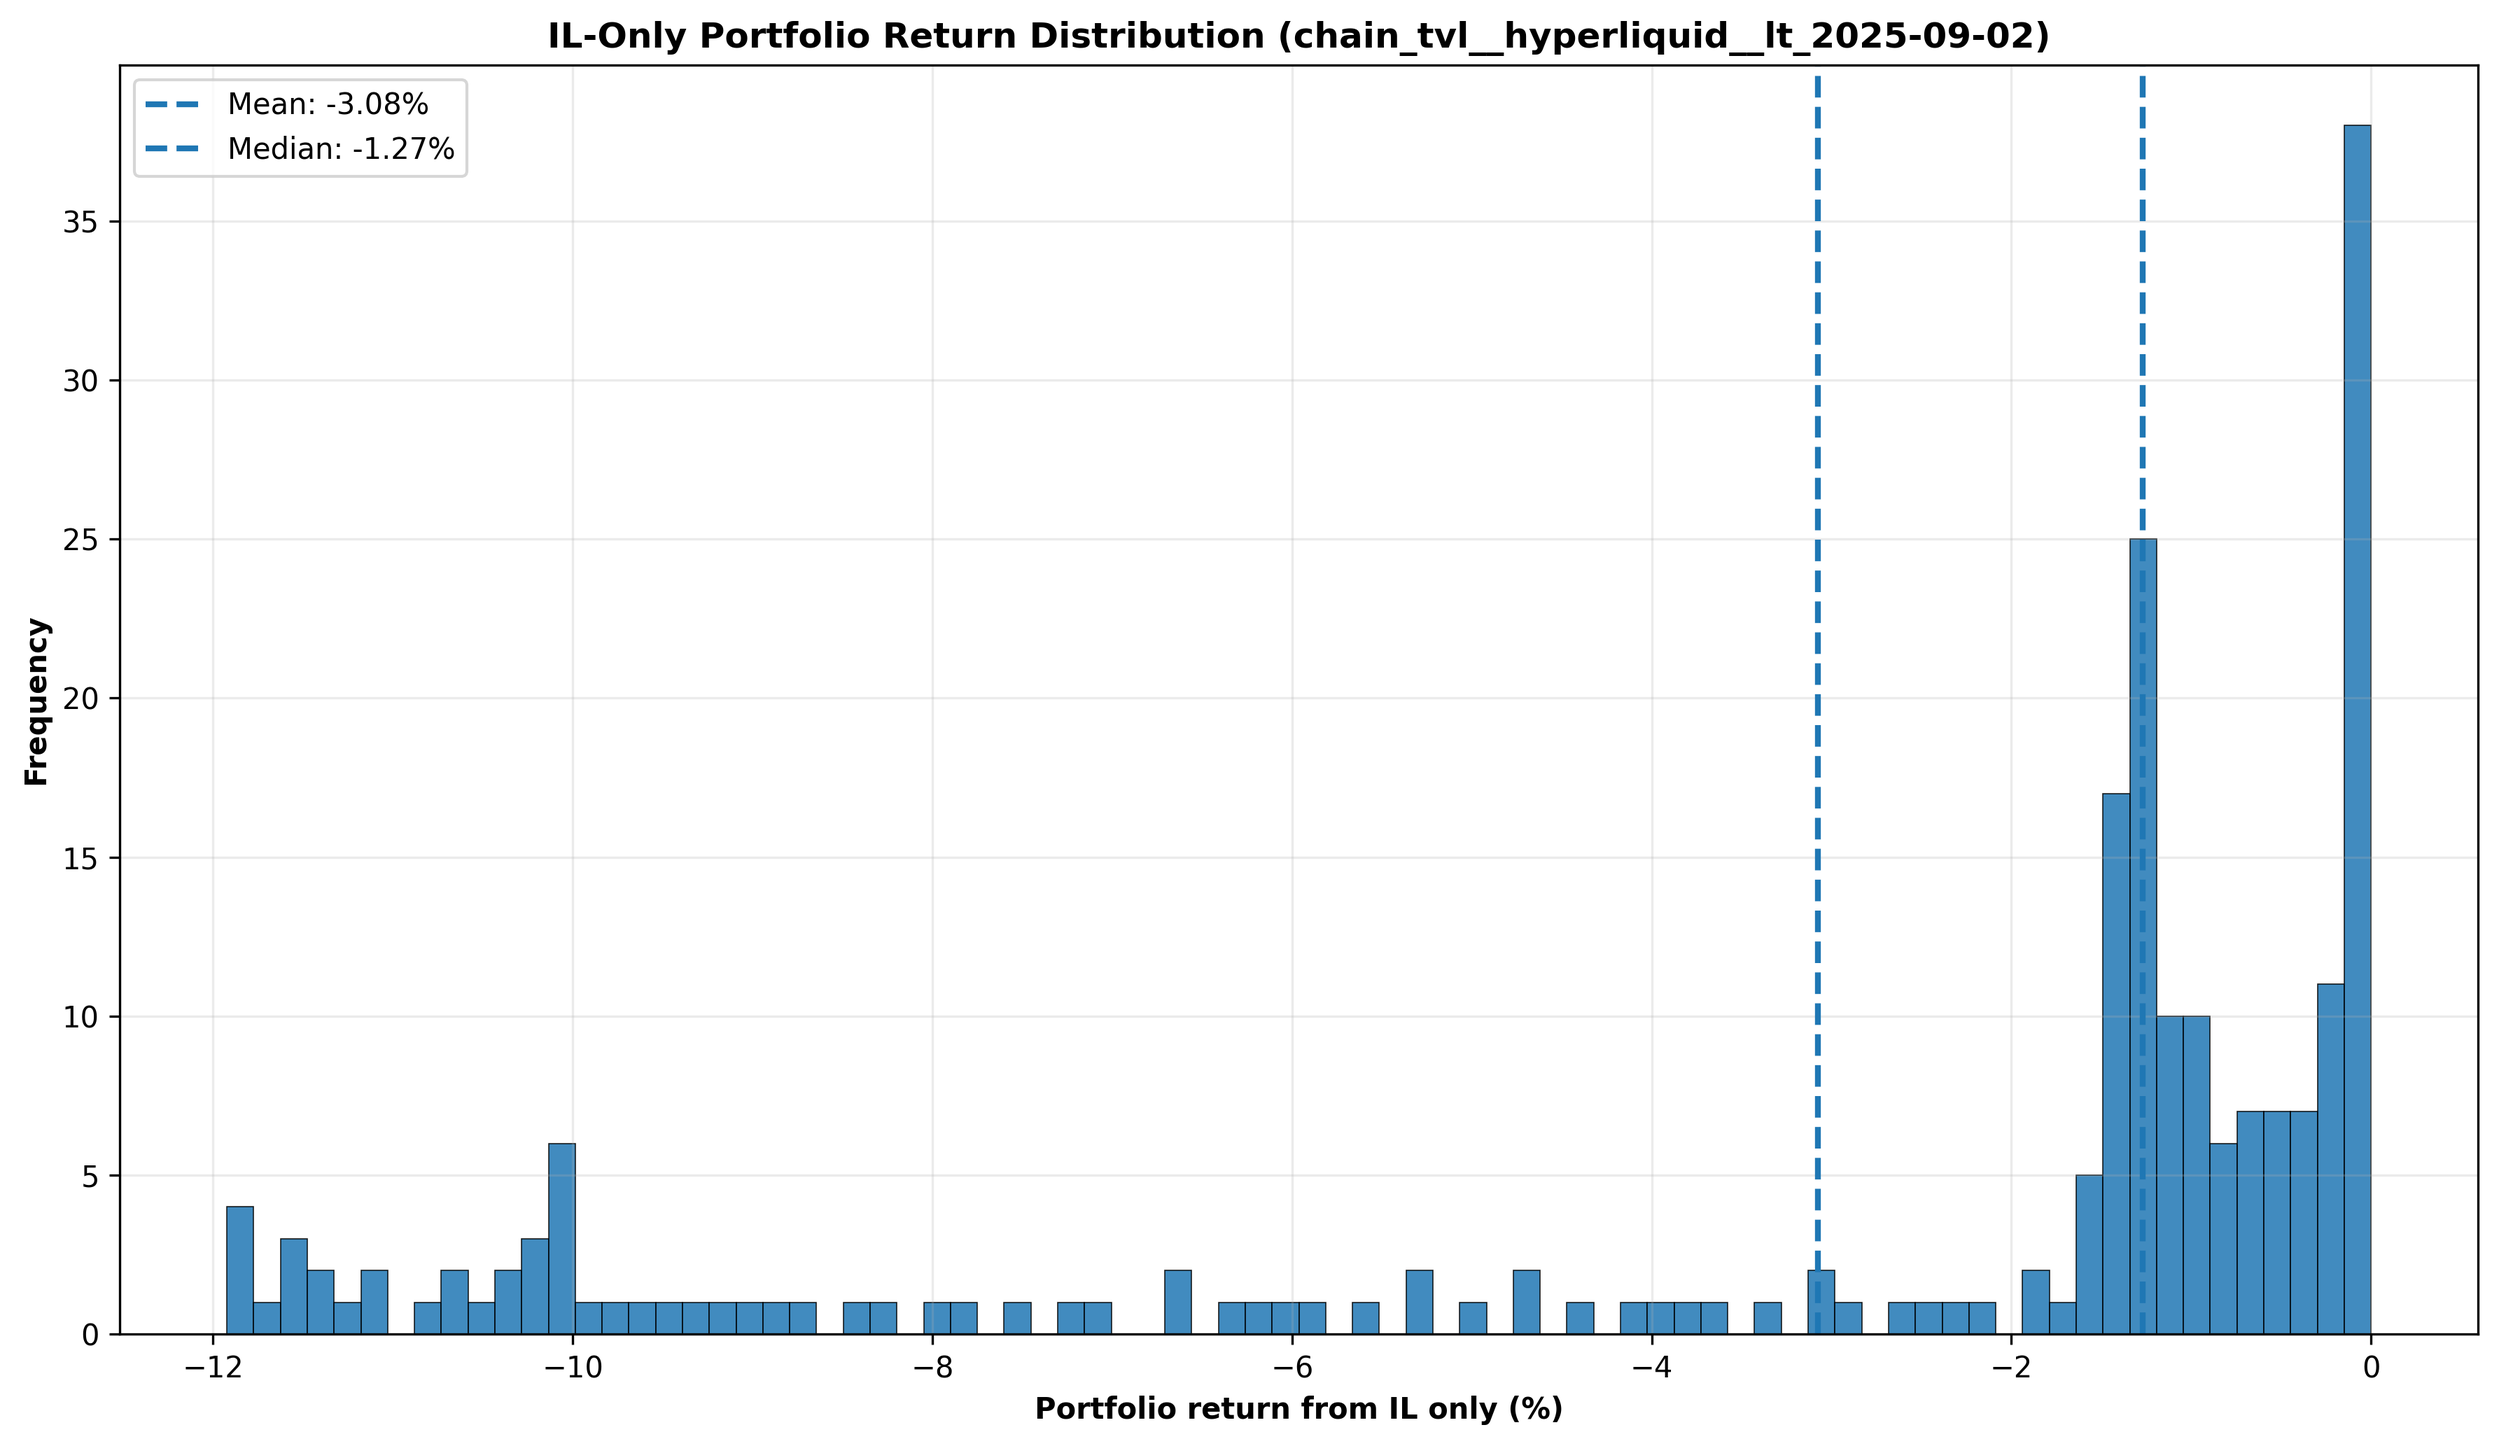
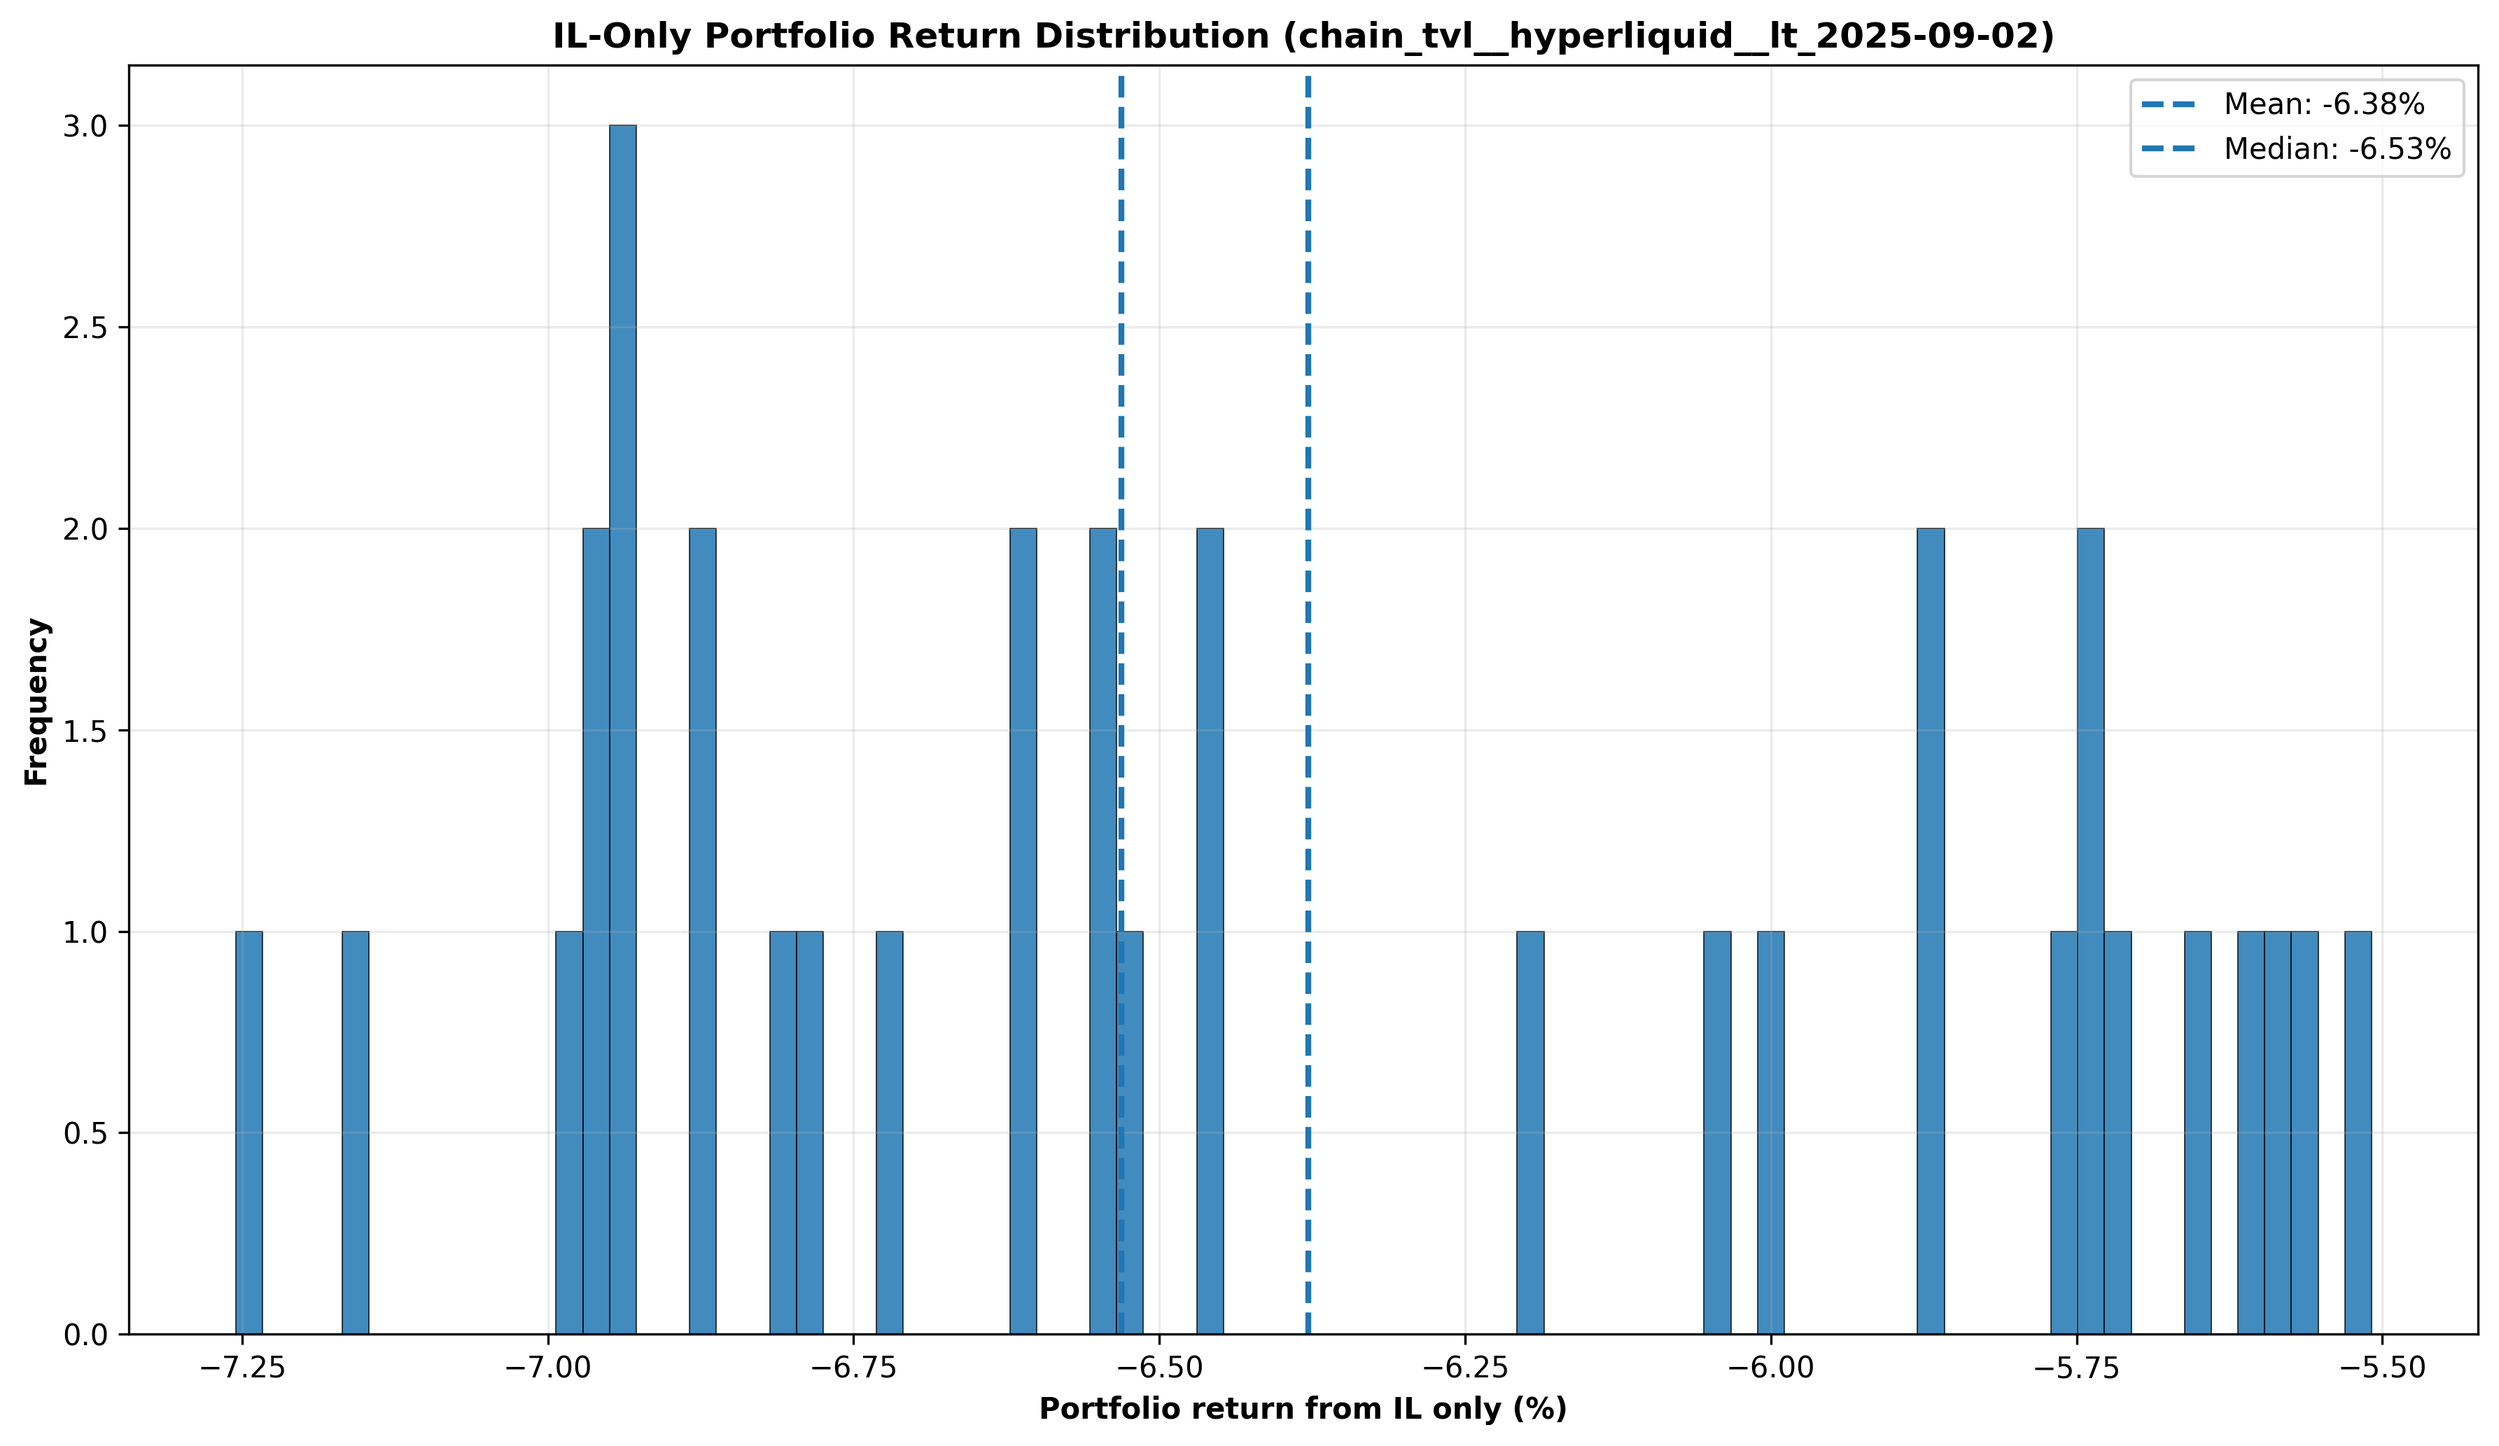
chain_tvl__base__il_report__lt_2025-09-02.md chain_tvl__hyperliquid__il_by_window__lt_2025-09-02.csv chain_tvl__hyperliquid__il_hist__lt_2025-09-02.png chain_tvl__hyperliquid__il_report__lt_2025-09-02.md chain_tvl__hyperliquid__il_timeseries__lt_2025-09-02.png chain_tvl__solana__il_report__lt_2025-0

diff --git a/chain_tvl__hyperliquid__il_report__lt_2025-09-02.md b/chain_tvl__hyperliquid__il_report__lt_2025-09-02.md
@@ -20,7 +20,7 @@ We simulate starting at each historical window strictly earlier than the cutoff 
 We **exclude** very early windows until a minimum history (processing.min_il_calc_history_months) has elapsed to avoid unstable bounds.
 
 ## Important
-- **Mean** -3.08% and **median** -1.27% IL-only returns are shown below.
+- **Mean** -6.38% and **median** -6.53% IL-only returns are shown below.
 - These IL losses must be compared to incentive APY to calculate your net returns.
 
 ## Portfolio Performance
@@ -34,9 +34,9 @@ This time series shows how IL-only portfolio returns have varied across differen
 
 ### Distribution Summary (IL-only, %)
 
-- Count: **215**
-- Mean: **-3.08%**, Std: **3.83%**
-- Median: **-1.27%**  |  P25: **-4.80%**  |  P10: **-10.15%**  |  P75: **-0.41%**
+- Count: **34**
+- Mean: **-6.38%**, Std: **0.55%**
+- Median: **-6.53%**  |  P25: **-6.87%**  |  P10: **-6.97%**  |  P75: **-5.79%**
 
 ## Calculating Your Net APY
 
@@ -57,13 +57,13 @@ Where:
 - **IL_Return**: Your expected impermanent loss return (as a decimal, typically negative)
 
 ### Example Calculation (Hypothetical Numbers Only):
-**Example calculation only**: Let's say Merkl shows **200% APY** (this is just an example - actual APY varies by market) and you experience the **median IL loss (-1.27%)**:
+**Example calculation only**: Let's say Merkl shows **200% APY** (this is just an example - actual APY varies by market) and you experience the **median IL loss (-6.53%)**:
 
 1. **Scale Merkl APY to period**: 200% × 0.082 = 16.4%
 2. **Convert to multiplier**: 1 + 16.4% = 1.164
-3. **Apply median IL loss**: 1.164 × (1 + -1.3%) = 1.164 × 0.987 = 1.150
-4. **Net return for 30 days**: 15.0%
-5. **Annualized (APY)**: (1.150)^12.2 - 1 = **445.2% APY**
+3. **Apply median IL loss**: 1.164 × (1 + -6.5%) = 1.164 × 0.935 = 1.088
+4. **Net return for 30 days**: 8.8%
+5. **Annualized (APY)**: (1.088)^12.2 - 1 = **180.1% APY**
 
 **Steps to use this with your actual numbers:**
 1. Find your market's Merkl campaign and note the **actual APY** (not the 200% example)
@@ -78,6 +78,15 @@ Where:
 
 ## Outputs
 - **CSV (per-window IL)**: [chain_tvl__hyperliquid__il_by_window__lt_2025-09-02.csv](chain_tvl__hyperliquid__il_by_window__lt_2025-09-02.csv)
+
+## Configuration Parameters
+
+```
+generation.hist_months: 4
+processing.scale: max
+processing.only_positive: True
+processing.min_il_calc_history_months: 1
+```
 
 # Disclaimer
 This analysis is for informational purposes only and does not constitute financial advice. Results are based on historical data and may not reflect future performance. Simulation code and models may contain errors or inaccuracies.

diff --git a/chain_tvl__solana__il_report__lt_2025-09-02.md b/chain_tvl__solana__il_report__lt_2025-09-02.md
@@ -79,5 +79,14 @@ Where:
 ## Outputs
 - **CSV (per-window IL)**: [chain_tvl__solana__il_by_window__lt_2025-09-02.csv](chain_tvl__solana__il_by_window__lt_2025-09-02.csv)
 
+## Configuration Parameters
+
+```
+generation.hist_months: 20
+processing.scale: log
+processing.only_positive: True
+processing.min_il_calc_history_months: 5
+```
+
 # Disclaimer
 This analysis is for informational purposes only and does not constitute financial advice. Results are based on historical data and may not reflect future performance. Simulation code and models may contain errors or inaccuracies.

diff --git a/chain_tvl__base__il_report__lt_2025-09-02.md b/chain_tvl__base__il_report__lt_2025-09-02.md
@@ -79,5 +79,14 @@ Where:
 ## Outputs
 - **CSV (per-window IL)**: [chain_tvl__base__il_by_window__lt_2025-09-02.csv](chain_tvl__base__il_by_window__lt_2025-09-02.csv)
 
+## Configuration Parameters
+
+```
+generation.hist_months: 20
+processing.scale: log
+processing.only_positive: True
+processing.min_il_calc_history_months: 5
+```
+
 # Disclaimer
 This analysis is for informational purposes only and does not constitute financial advice. Results are based on historical data and may not reflect future performance. Simulation code and models may contain errors or inaccuracies.
